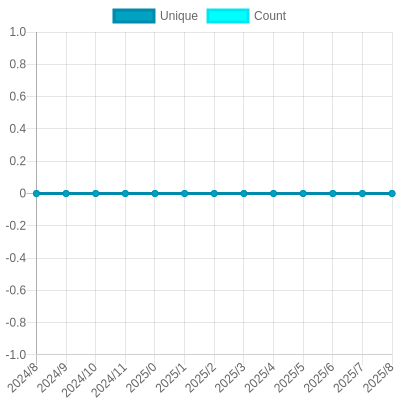
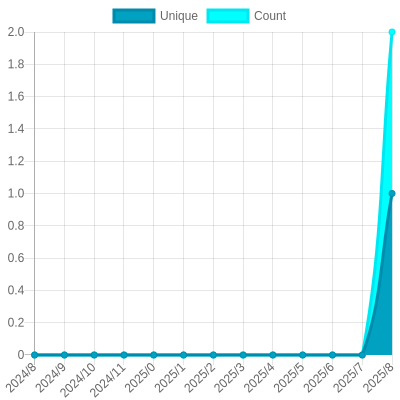
Update views

diff --git a/readme/815549109/year.md b/readme/815549109/year.md
@@ -23,10 +23,10 @@
 			<code>2024/9/1</code>
 		</td>
 		<td>
-			<code>0</code>
+			<code>1</code>
 		</td>
 		<td>
-			<code>0</code>
+			<code>2</code>
 		</td>
 	</tr>
 	<tr>
@@ -164,7 +164,7 @@
 </table>
 
 </details>
-<small><i>Last updated on 2024/9/27 6:22 AM UTC</i></small>
+<small><i>Last updated on 2024/9/27 12:29 PM UTC</i></small>
 
 ## ✂Copy and 📋 Paste
 ### SVG Badge

diff --git a/README.md b/README.md
@@ -357,7 +357,7 @@ The project created and maintained by [gayanvoice](https://github.com/gayanvoice
 	</tr>
 </table>
 
-<small><i>Last updated on 2024/9/27 6:23 AM UTC</i></small>
+<small><i>Last updated on 2024/9/27 12:31 PM UTC</i></small>
 
 ## ✂Copy and 📋 Paste
 ### Total Views Badge

diff --git a/readme/698104324/year.md b/readme/698104324/year.md
@@ -164,7 +164,7 @@
 </table>
 
 </details>
-<small><i>Last updated on 2024/9/27 6:22 AM UTC</i></small>
+<small><i>Last updated on 2024/9/27 12:30 PM UTC</i></small>
 
 ## ✂Copy and 📋 Paste
 ### SVG Badge

diff --git a/readme/698130765/year.md b/readme/698130765/year.md
@@ -164,7 +164,7 @@
 </table>
 
 </details>
-<small><i>Last updated on 2024/9/27 6:21 AM UTC</i></small>
+<small><i>Last updated on 2024/9/27 12:28 PM UTC</i></small>
 
 ## ✂Copy and 📋 Paste
 ### SVG Badge

diff --git a/readme/698182249/year.md b/readme/698182249/year.md
@@ -164,7 +164,7 @@
 </table>
 
 </details>
-<small><i>Last updated on 2024/9/27 6:22 AM UTC</i></small>
+<small><i>Last updated on 2024/9/27 12:29 PM UTC</i></small>
 
 ## ✂Copy and 📋 Paste
 ### SVG Badge

diff --git a/readme/741956451/year.md b/readme/741956451/year.md
@@ -164,7 +164,7 @@
 </table>
 
 </details>
-<small><i>Last updated on 2024/9/27 6:22 AM UTC</i></small>
+<small><i>Last updated on 2024/9/27 12:30 PM UTC</i></small>
 
 ## ✂Copy and 📋 Paste
 ### SVG Badge

diff --git a/readme/750768610/year.md b/readme/750768610/year.md
@@ -164,7 +164,7 @@
 </table>
 
 </details>
-<small><i>Last updated on 2024/9/27 6:23 AM UTC</i></small>
+<small><i>Last updated on 2024/9/27 12:30 PM UTC</i></small>
 
 ## ✂Copy and 📋 Paste
 ### SVG Badge

diff --git a/readme/783743308/year.md b/readme/783743308/year.md
@@ -164,7 +164,7 @@
 </table>
 
 </details>
-<small><i>Last updated on 2024/9/27 6:23 AM UTC</i></small>
+<small><i>Last updated on 2024/9/27 12:30 PM UTC</i></small>
 
 ## ✂Copy and 📋 Paste
 ### SVG Badge

diff --git a/readme/787331288/year.md b/readme/787331288/year.md
@@ -164,7 +164,7 @@
 </table>
 
 </details>
-<small><i>Last updated on 2024/9/27 6:23 AM UTC</i></small>
+<small><i>Last updated on 2024/9/27 12:30 PM UTC</i></small>
 
 ## ✂Copy and 📋 Paste
 ### SVG Badge

diff --git a/readme/787355501/year.md b/readme/787355501/year.md
@@ -164,7 +164,7 @@
 </table>
 
 </details>
-<small><i>Last updated on 2024/9/27 6:23 AM UTC</i></small>
+<small><i>Last updated on 2024/9/27 12:30 PM UTC</i></small>
 
 ## ✂Copy and 📋 Paste
 ### SVG Badge

diff --git a/readme/796346104/year.md b/readme/796346104/year.md
@@ -164,7 +164,7 @@
 </table>
 
 </details>
-<small><i>Last updated on 2024/9/27 6:22 AM UTC</i></small>
+<small><i>Last updated on 2024/9/27 12:30 PM UTC</i></small>
 
 ## ✂Copy and 📋 Paste
 ### SVG Badge

diff --git a/readme/814687995/year.md b/readme/814687995/year.md
@@ -164,7 +164,7 @@
 </table>
 
 </details>
-<small><i>Last updated on 2024/9/27 6:22 AM UTC</i></small>
+<small><i>Last updated on 2024/9/27 12:30 PM UTC</i></small>
 
 ## ✂Copy and 📋 Paste
 ### SVG Badge
